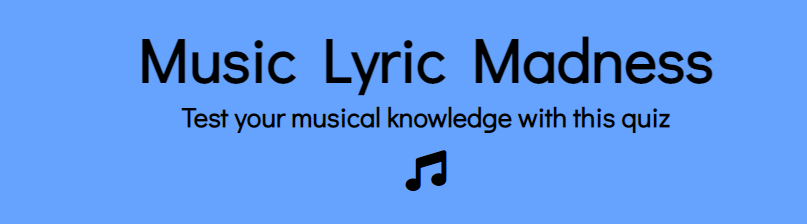
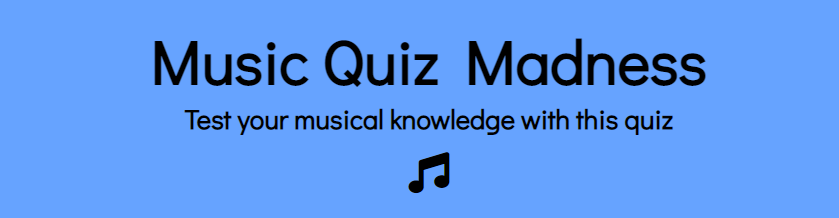
Update the readme file

Changed region(s): [[0.1549, 0.1651, 0.8984, 0.4404], [0.2169, 0.4679, 0.8364, 0.633], [0.4647, 0.6606, 0.5576, 0.8807]]

diff --git a/README.md b/README.md
@@ -1,11 +1,11 @@
-# Music Lyric Madness
+# Music Quiz Madness
 
-![screenshot](documentation/mockup.png)
+![screenshot](documentation/mockup2.png)
 [Live site](https://emmygood.github.io/music-lyric-madness/)
 
 ## Introduction
 
-Music Lyric Madness is an interactive general knowledge music quiz game. The aim of this game is for the user to select the correct answer to the question from the multiple choice selection. The questions are a mixture of difficulties, with songs ranging from all eras of music. The user is shown a lyric from a song, and must guess the correct name of the song, that the lyric is from. Each question will have four multiple choice answers for the user to choose from. The user is shown their score as they move along through the ten questions.
+Music Quiz Madness is an interactive general knowledge music quiz game. The aim of this game is for the user to select the correct answer to the question from the multiple choice selection. The questions are a mixture of difficulties, with songs ranging from all eras of music. The user is shown a question from music trivia, and must guess the correct answer to the question. Each question will have four multiple choice answers for the user to choose from. The user is shown their score as they move along through the ten questions, and will recieve feedback of their final score at the end.
 
 ---
 
@@ -14,8 +14,8 @@ Music Lyric Madness is an interactive general knowledge music quiz game. The aim
 ### Color Scheme
 
 
-As Music Lyric Madness is a quiz game based on music, I chose the background to be full of music notes. I didn't want the background to be too busy, so I stuck with black and white colors for this. The aim of this is so that when the user opens up the site they will have a general idea of what the theme of this quiz is. This background is consistent across all devices.
-I wanted the game itself to be inside a box over the top of the background, as this made the content easier to see. To juxtapose against the simple background colors, I went with paler versions; of blue and pink, so it was not too overpowering. Then I kept the text simple, being black, as this is easy to read against the blue and pink.
+I chose the background to be full of music notes as this is what the game is based on. I didn't want the background to be too busy, so I stuck with black and white colors for this. 
+I wanted the game itself to be inside a box overlapping the background, as this made the content easier to see. To juxtapose against the simple background colors, I went with paler versions; of blue and pink, so it was not too overpowering. Then I kept the text simple, being black, as this is easy to read against the blue and pink.
 When the answer is chosen, I wanted the user to easily see which one is correct and which are incorrect. Therefore I chose a red and and a green, to change the font and border color. I used [coolors.co](https://coolors.co/ff8080-cc0000-66a3ff-004d00) to generate my color palette.
 
 - #66a3ff used for the content box
@@ -69,13 +69,62 @@ When the answer is chosen, I wanted the user to easily see which one is correct 
 ## Features
 ### Common Features
 
+#### Background and Favicon
+- As Music Quiz Madness is a quiz game based on music, I wanted the background to reflect this. 
+- In order for the background to not distract from the game itself, the colors are simple black and white.
+- The aim of this is so that when the user opens up the site they will have a general idea of what the theme of this quiz is. This background is consistent across all devices.
+
+![screenshot](documentation/backg.png)
+
 #### Logo and heading
-- The name of the game along with the heading remain the same when playing the game and also do not change when played on different screen sizes. I purposley did not want this too big, as I wanted the questions to be the forefront of the game.
+- The name of the game along with the heading remain the same when playing the game, and also do not change when played on different screen sizes. This is purposley not too big, as I wanted the questions to be the forefront of the game.
 - The heading gives the user more information about what the quiz is about.
 - The font Awesome music note icon, is consistant when playing the game. It is a quick indicator for the user as to what the game is about.
-- When the game has started, and the user moves onto the first question, the refresh icon will appear. This is included to give the user the chance to return to the home page if they decide they want to start again, or re-read the instructions. 
+- When the game has started, and the user moves onto the first question, the refresh icon will appear, next to the music note. This is included to give the user the chance to return to the home page if they decide they want to start again, or re-read the instructions. 
 
 ![screenshot](documentation/heading.png)
 
-![screenshot](documentation/refresh2.png)
+![screenshot](documentation/refresh.png)
 
+#### Footer
+- The footer is separate from the game area, so it is not in the way or distracting to the user when playing.
+- The footer contains the copyright and social media links which are displayed as font awesome icons.
+- It is the same width as the game area box to keep the theme consistant but to separate it from the game it is in the color #ff8080. 
+- It is consistent across all devices, giving the user easier access to find them.
+
+![screenshot](documentation/footer.png)
+
+#### How To Play Area
+- The how to play area, is situated under the heading and icons of the home page. Consisting of easy to follow and quick to read steps on how to play the game.
+- This area is useful for the user so they know what to expect and always have a point to refer back to if needed.
+- This area is hidden once the game is started.
+- When the game is started, the refresh icon will appear, once clicked it takes you back to this page, where the instructions are displayed. 
+
+![screenshot](documentation/howto.png)
+
+#### Start Button
+- The start button is displayed underneath the how to play instructions. So once the user has read the steps they can get straight on and begin the game. This is the case across all devices.
+- In order for the button to stand out against the blue, it is in the color #ff8080. When the user hovers over the button, the border will turn white #ffffff to let the user know they should click on that button.
+- When the game has started this button is hidden.
+
+![screenshot](documentation/start.png)
+![screenshot](documentation/start2.png)
+
+#### Question and Answers
+- When the user clicks the start button the first question appears in place of the instructions.
+- The questions are numbered to give the user insight into what number they are on.
+- The questions will never appear in the same order, they are shuffled every game.
+- There are four multiple choice answers, for the user to choose from.
+- When hovered over, each button outline will turn white #ffffff to indicate it is clickable.
+- Once the answer is chosen, the correct answer will turn green hsl(120, 100%, 15%), leaving the incorrect answers to tun red hsl(0, 100%, 40%). This is giving immediate feedback to the user which should make them continue to play because it means they do not have to wait until the end to recieve the correct answer.
+- This section is responsive to any device.
+
+![screenshot](documentation/questions.png)
+![screenshot](documentation/chosen.png)
+
+#### Score Area and Next Button
+- This is visible as soon as the game has started.
+- When the player selects their answer, the score area will update by one, to either the correct answer or the incorrect answer. This feedback givien to the user will make them want to improve upon their score.
+- The next button is only visible when an answer is selected, this is so they cannot skip a question.
+
+![screenshot](documentation/score.png)
